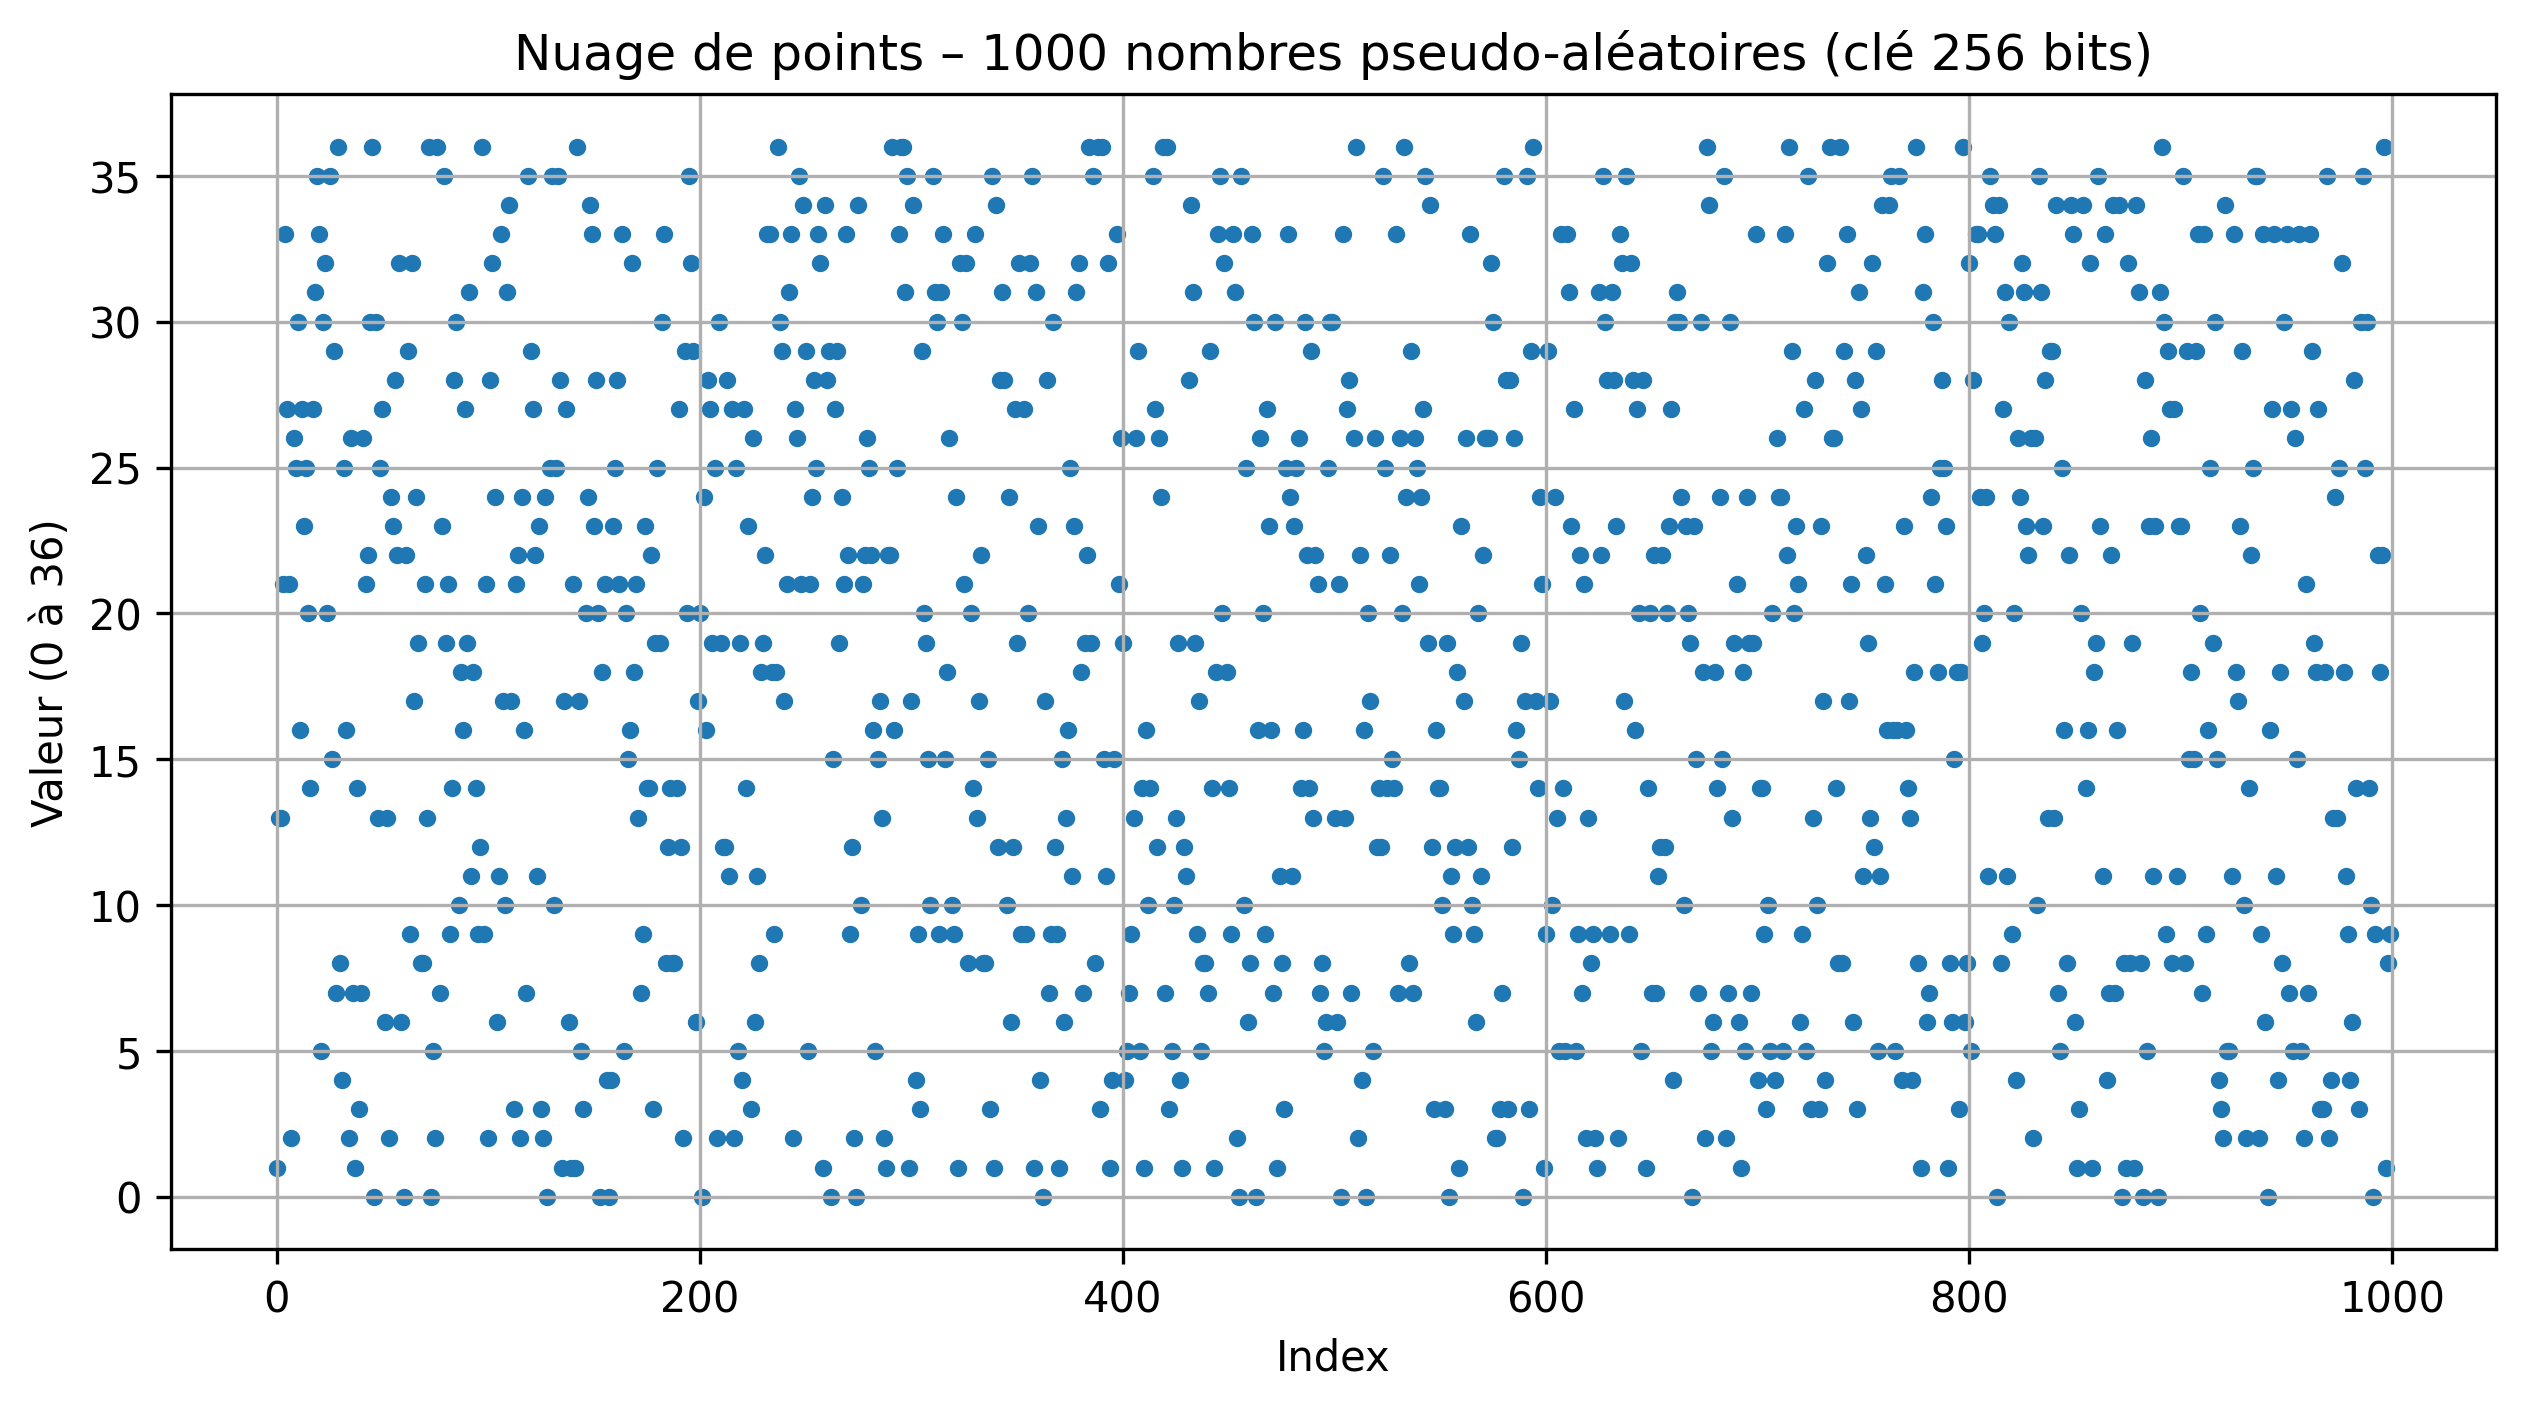
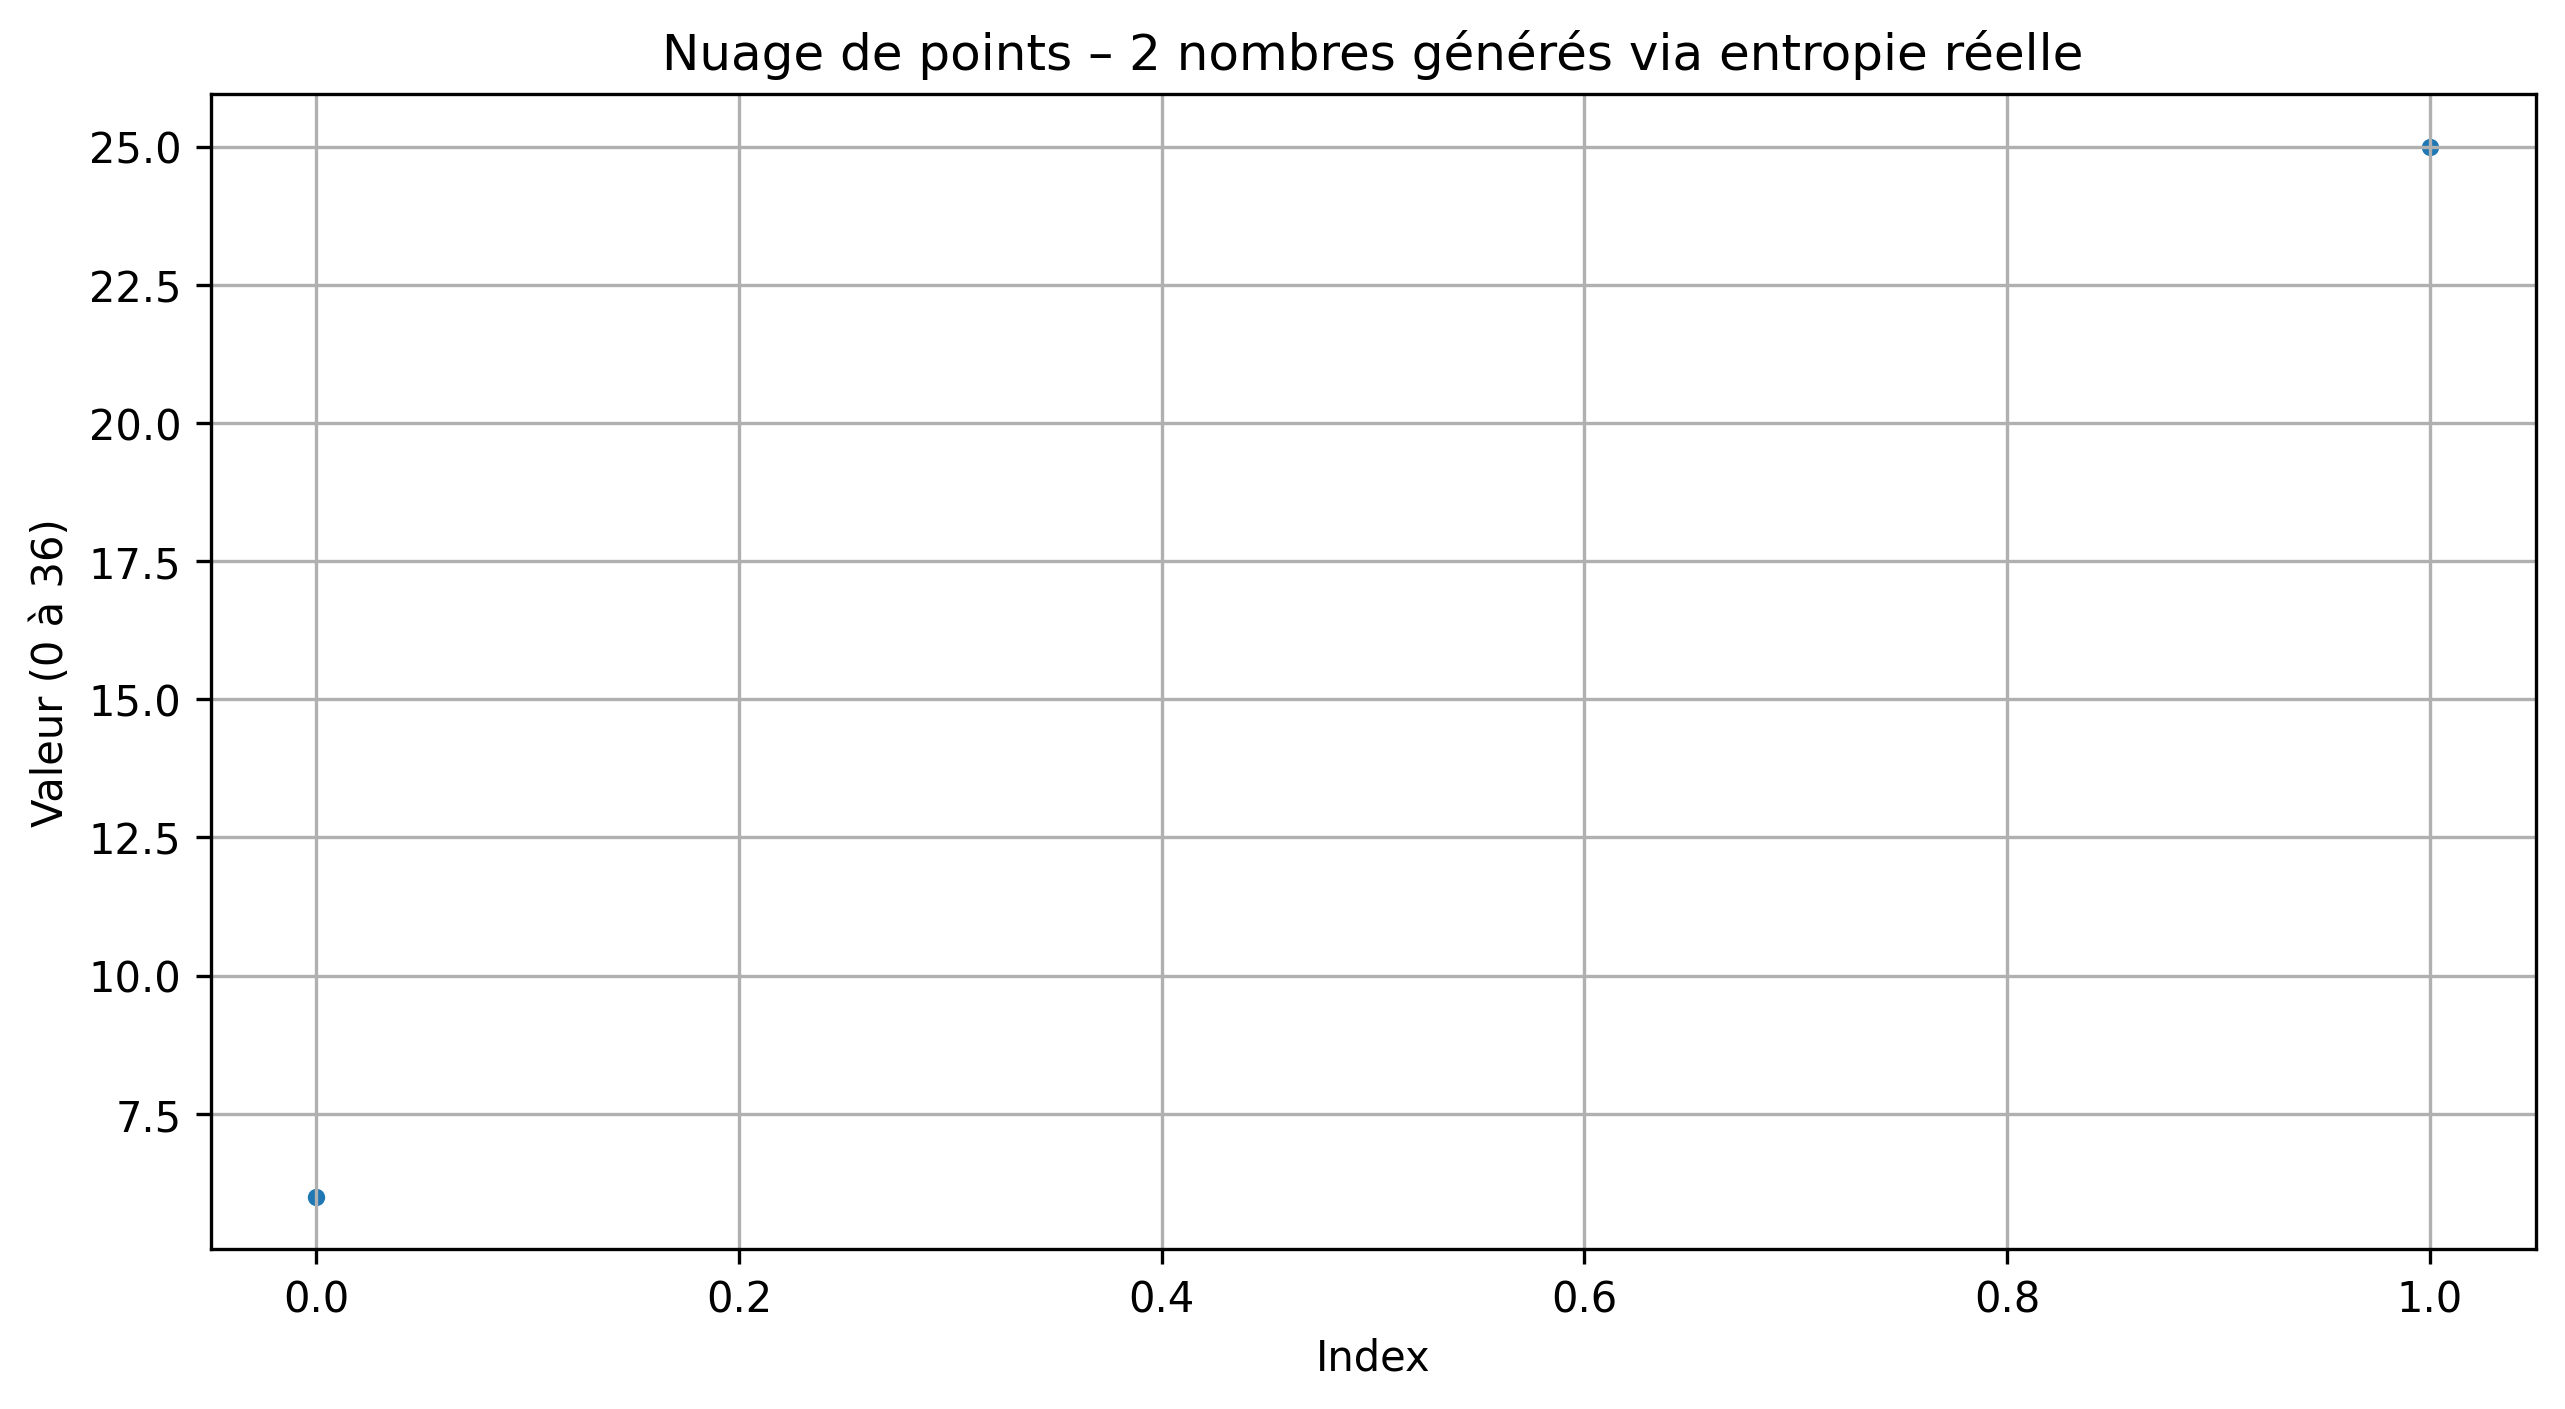
change number generation to call entropy at all loop time

diff --git a/main.py b/main.py
@@ -1,31 +1,39 @@
 from utils.file_and_folder import init_File_And_Folder, remove_Temp_File
-
 from config import TEMP_OUTPUT, OUTPUT, REMOVETEMPFILE
-from entropy import entropy_generation
-from graphique import nuage_points
+from entropy import generate_single_number
+from graphique import nuage_points_from_values
 from roulette import create_roulette
+
+NOMBRE_GENERATIONS = 10
 
 init_File_And_Folder(TEMP_OUTPUT, OUTPUT)
 
-print(f"Génération de l'entropie pour la clé 256 bits...")
-key_bytes, key_hex, Number_People, Number_Meteo = entropy_generation()
-print(f"\n{'='*60}")
-print(f"CLÉ 256 BITS GÉNÉRÉE")
-print(f"{'='*60}")
-print(f"Format hexadécimal: {key_hex}")
-print(f"Format bytes: {key_bytes}")
-print(f"Longueur: {len(key_bytes)} bytes ({len(key_bytes)*8} bits)")
-print(f"Sauvegardée dans: {OUTPUT['Key_File']}")
+print(f"Génération de {NOMBRE_GENERATIONS} nombres via entropie...")
 print(f"{'='*60}")
 
-create_roulette(key_hex)
+generated_numbers = []
 
-print(f"Génération du nuage de points...")
-nuage_points(key_hex)
+for i in range(NOMBRE_GENERATIONS):
+    number, key_hex = generate_single_number()
+    generated_numbers.append(number)
+    
+    if (i + 1) % 100 == 0:
+        print(f"Progression: {i + 1}/{NOMBRE_GENERATIONS} nombres générés")
+
 print(f"\n{'='*60}")
-print(f"NUAGE DE 1000 POINT GÉNÉRÉE")
+print(f"{NOMBRE_GENERATIONS} NOMBRES GÉNÉRÉS")
+print(f"{'='*60}")
+print(f"Premiers 10 nombres: {generated_numbers[:10]}")
+print(f"Derniers 10 nombres: {generated_numbers[-10:]}")
+print(f"Min: {min(generated_numbers)}, Max: {max(generated_numbers)}")
+print(f"{'='*60}")
+
+print(f"\nGénération du nuage de points...")
+nuage_points_from_values(generated_numbers)
+print(f"\n{'='*60}")
+print(f"NUAGE DE {NOMBRE_GENERATIONS} POINTS GÉNÉRÉE")
 print(f"{'='*60}")
 print(f"Nuage de points sauvegardé dans: {OUTPUT['nuage_points_graph']}\n")
 
-if REMOVETEMPFILE :
+if REMOVETEMPFILE:
     remove_Temp_File(TEMP_OUTPUT)

diff --git a/graphique.py b/graphique.py
@@ -2,23 +2,17 @@ import random
 import matplotlib.pyplot as plt
 from config import OUTPUT, DEBUG
 
-def nuage_points(hex_key):
+def nuage_points_from_values(values):
     if DEBUG:
-        print("graphique.py -> func nuage_points.py -> clé hexa entrer : ", hex_key)
-    seed = int(hex_key, 16)
-    if DEBUG:
-        print("graphique.py -> func nuage_points.py -> seed generer : ", seed)
-    random.seed(seed)
-
-    values = [random.randint(0, 36) for _ in range(1000)]
-    x = list(range(1000))
+        print(f"graphique.py -> func nuage_points_from_values -> {len(values)} valeurs reçues")
+    
+    x = list(range(len(values)))
     plt.figure(figsize=(10, 5))
     plt.scatter(x, values, s=10)
     plt.xlabel("Index")
     plt.ylabel("Valeur (0 à 36)")
-    plt.title("Nuage de points – 1000 nombres pseudo-aléatoires (clé 256 bits)")
+    plt.title(f"Nuage de points – {len(values)} nombres générés via entropie réelle")
     plt.grid(True)
 
     plt.savefig(OUTPUT["nuage_points_graph"], dpi=300, bbox_inches="tight")
-
     plt.close()

diff --git a/entropy.py b/entropy.py
@@ -8,7 +8,7 @@ from config import TEMP_OUTPUT, OUTPUT, LINKS, DEBUG
 
 import json
 
-def Number_People_Detected_Comedie() :
+def Number_People_Detected_Comedie():
     randomVideoPageLink = get_Random_Video_Page_Today_Link(LINKS["Camera_Comedie"])
     if DEBUG:
         print(randomVideoPageLink)
@@ -27,8 +27,10 @@ def Meteo_Information_At_location(seed):
         json.dump(formated_json, f, ensure_ascii=False, indent=2)
     return multiply_value_json(formated_json)
 
-def entropy_generation() :
+def generate_single_number():
     Number_People = Number_People_Detected_Comedie()
     Number_Meteo = Meteo_Information_At_location(Number_People)
     key_bytes, key_hex = generate_256bit_key(Number_People, Number_Meteo, OUTPUT['Key_File'])
-    return key_bytes, key_hex, Number_People, Number_Meteo
+    seed = int(key_hex, 16)
+    number = seed % 37
+    return number, key_hex
